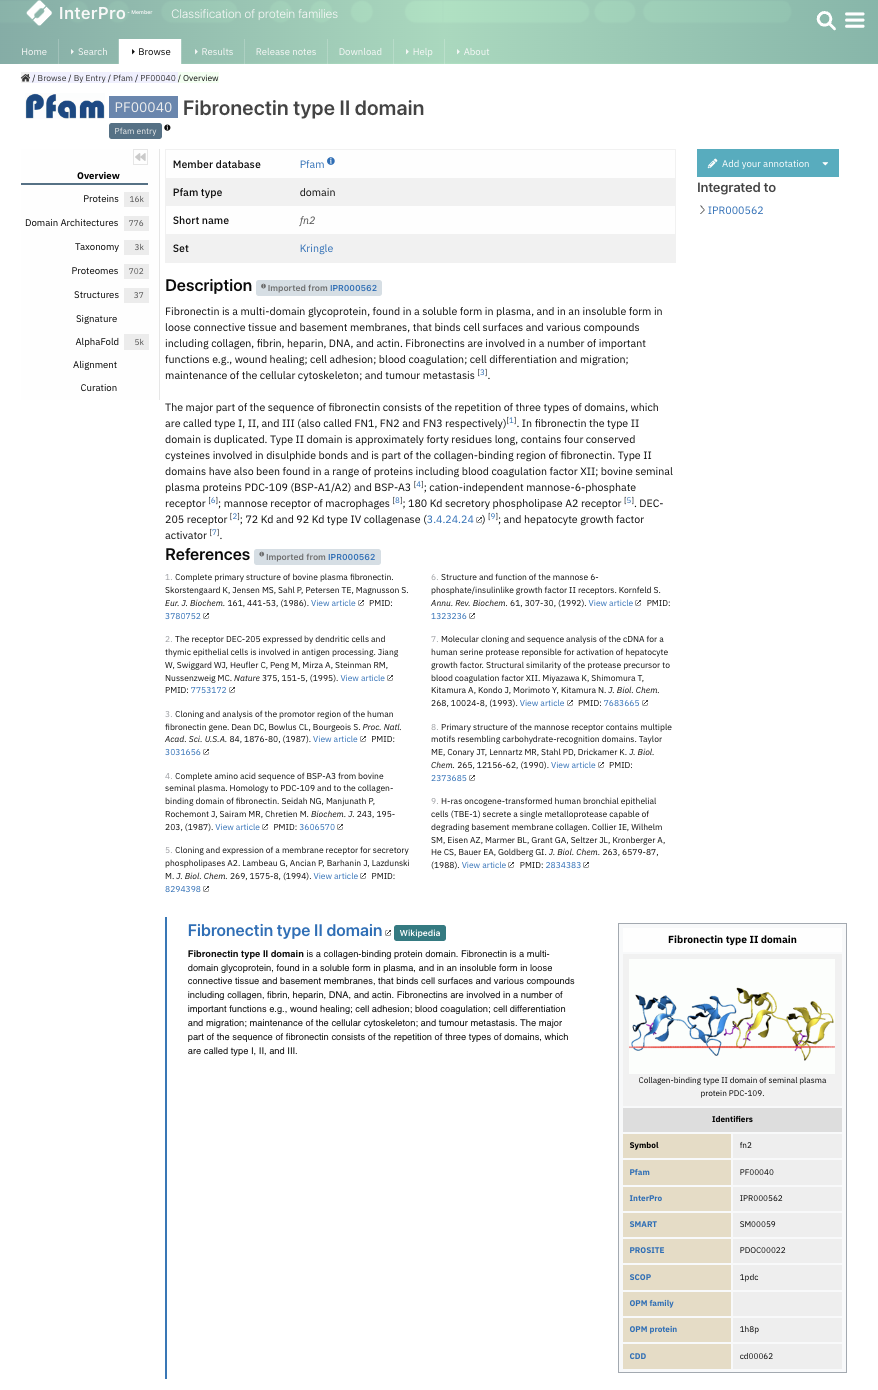
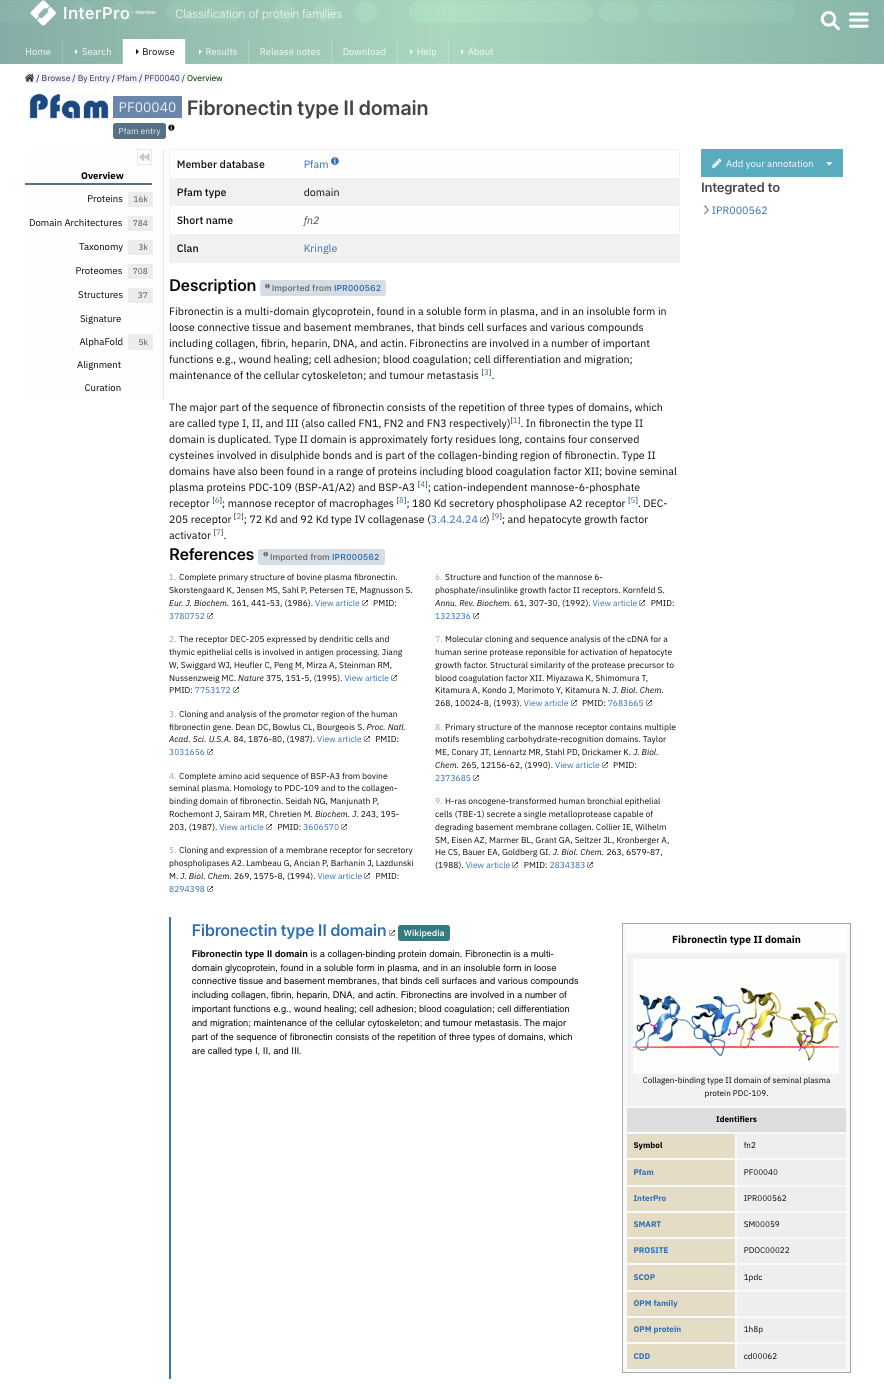
InterPro 97.0 updates

diff --git a/docs/browse.rst b/docs/browse.rst
@@ -20,7 +20,7 @@ There are 7 categories of entry pages in InterPro:
 - :ref:`Structure <structure_page>`
 - :ref:`Taxonomy <taxonomy_page>`
 - :ref:`Proteome <proteome_page>`
-- :ref:`Set <set_page>`
+- :ref:`Set/Clan <set_page>`
 
 The following entry data tabs are available when appropriate. We describe each in detail in the first 
 entry page it appears in. Most entry data tabs will be described within the :ref:`entry_page`.
@@ -44,9 +44,9 @@ entry page it appears in. Most entry data tabs will be described within the :ref
 
 .. _entry_page:
 
-********************
+*******************
 InterPro entry page
-********************
+*******************
 
 An InterPro entry represents a unique protein homologous superfamily, family, domain, repeat or important 
 site based on one or more signatures provided by the :doc:`InterPro member databases </databases>`.
@@ -59,11 +59,16 @@ site based on one or more signatures provided by the :doc:`InterPro member datab
 
 InterPro entry pages give a brief description of the entry, name and unique InterPro identifier. 
 The InterPro entry type (homologous superfamily, family, domain, repeat or site) is also indicated by an 
-icon (e.g. a D with a green background for a domain). Member databases contributing signatures to the 
-entry are shown in a box on the right hand side of the page. :ref:`Overlapping homologous superfamilies 
-<overlapping>` and/or :ref:`Relationships to other entries <relationship>` are indicated where available. 
+icon (e.g. a D with a green background for a domain). 
+
 Clicking on the star symbol next to the entry name will save the entry as a Favourite. The full list of saved
 entries is available in the :ref:`favourite` in the homepage. More information about the data provided in an 
+
+On the right hand side of the **Add your annotation** button on the right hand side allows the user to suggest updates to the InterPro annotation and the page member databases contributing signatures to the 
+entry are shown in a box. 
+
+:ref:`Overlapping homologous superfamilies <overlapping>` and/or :ref:`Relationships to other entries <relationship>` are indicated where available. 
+
 InterPro entry page can be found in the :doc:`InterPro Entries : essential information </entries_info>` section 
 of the documentation. 
 
@@ -224,11 +229,11 @@ regarding them as preliminary sources of information. :doc:`Read more on AI-gene
 
 Some member databases create groups of families that are evolutionary related. Pfam calls them clans, 
 CDD uses the term superfamily and, for PIRSF and Panther the concept is associated with the parent families of 
-their hierarchy. We use the umbrella term Set to refer to all of them. When available, the set to which the signature 
+their hierarchy. We use the umbrella term Clan to refer to Pfam groups and Set to refer to the other groups. When available, the set/clan to which the signature 
 belongs to is indicated.
 
 The right hand side of the page provides links to the InterPro entry in which this signature has been integrated, and 
-an external link to the signature on the member database's website.
+an external link to the signature on the member database's website when available. For Pfam signatures, the **Add your annotation** button allows the user to suggest updates to the Pfam annotation.
 
 For signatures provided by the Pfam member database, a short extract of the wikipedia page is also displayed
 when available to complete the description.
@@ -246,7 +251,7 @@ and :ref:`curation`.
 .. _signature:
 
 Signature
-==========
+=========
 The signature representing the model that defines the entry is visualised in this page as a logo, 
 using `Skylign <http://www.skylign.org/>`_. The logo data is displayed for the NCBIfam, Pfam, PANTHER, 
 PIRSF, and SFLD member databases.
@@ -267,7 +272,7 @@ amino acid are displayed in the bottom part.
 .. _alignment:
 
 Alignment
-==========
+=========
 This section allows users to view and download any available alignment file that is associated with the 
 current member database signature. Currently, the alignment files are only available for the Pfam member 
 database, but hopefully we will be able to include alignments for other member databases in the future.
@@ -460,15 +465,15 @@ in the tabs has 9K related InterPro entries, 27K proteins and 363 structures. No
 
 .. _set_page:
 
-**************
-Set entry page
-**************
+*******************
+Set/Clan entry page
+*******************
 
 Some :doc:`InterPro member databases </databases>` create groups of families that are evolutionary 
-related, called sets. This page offers an overview of a specific set provided by a member database, 
-it includes a short description and an interactive view of the signatures included in the set. 
+related, called sets/clans. This page offers an overview of a specific set/clan provided by a member database, 
+it includes a short description and an interactive view of the signatures included in the set/clan. 
 For the interactive view, different label types can be chosen through the **Label Content** menu: 
-Accession, Name and Short name. For sets provided by the Pfam member database, an additional section 
+Accession, Name and Short name. For clans provided by the Pfam member database, an additional section 
 provides literature references, when available.
 
 .. figure:: images/browse_pages/set_page.png
@@ -484,9 +489,9 @@ The following tabs may be available: :ref:`set_entries`, :ref:`proteins`, :ref:`
 
 Entries
 =======
-Provides the list of signatures included in the set (accession, name and short name).
+Provides the list of signatures included in the set/clan (accession, name and short name).
 
-For Pfam sets (also known as clans), the Entries tab contains the list of Pfam entries included in the set 
+For Pfam clans, the Entries tab contains the list of Pfam entries included in the clan
 and links to the entries SEED alignment and domain architectures pages.
 
 .. _alignment_clan:
@@ -494,7 +499,7 @@ and links to the entries SEED alignment and domain architectures pages.
 Alignments
 ==========
 
-List of signatures included in the set and their alignment with other signatures in the set.
+List of signatures included in the set/clan and their alignment with other signatures in the set/clan.
 
 .. figure:: images/browse_pages/alignment_clan.png
     :alt: Sequence alignment of the different signatures in the set

diff --git a/docs/training.rst b/docs/training.rst
@@ -1,14 +1,6 @@
-################################
+#############################
 Upcoming courses and webinars
-################################
-
-************************************************************************
-Structural bioinformatics course (virtual)
-************************************************************************
-
-| **Date**:  2 - 6 October 2023
-| **Venue**:  Virtual - EMBL-EBI
-| `Programme details and registration <https://www.ebi.ac.uk/training/events/structural-bioinformatics-1/>`_
+#############################
 
 If you would like us to train employees/students from your company/institution, `contact us <https://www.ebi.ac.uk/support/interpro>`_.
 
@@ -16,43 +8,51 @@ If you would like us to train employees/students from your company/institution, 
 Previous courses
 ################
 
-************************************************************************
+********************************************
+Structural bioinformatics course (in person)
+********************************************
+
+| **Date**:  2 - 6 October 2023
+| **Venue**:  Virtual - EMBL-EBI
+| `Programme details <https://www.ebi.ac.uk/training/events/structural-bioinformatics-1/>`_
+
+******************************************************
 Bioinformatics resources for protein biology (virtual)
-************************************************************************
+******************************************************
 
 | **Date**:  25 - 27 April 2023
 | **Venue**:  Virtual - EMBL-EBI
 | **Application deadline**: 22 January 2023
 | `Programme details <https://www.ebi.ac.uk/training/events/bioinformatics-resources-protein-biology-1/>`_
 
-************************************************************************
+******************************************
 Structural bioinformatics course (virtual)
-************************************************************************
+******************************************
 
 | **Date**:  Monday 17 - Friday 21 October 2022
 | **Venue**:  Virtual - EMBL-EBI
 | `Programme details <https://www.ebi.ac.uk/training/events/structural-bioinformatics-2022/>`_
 
-************************************************************************
+*******************************************
 Introduction to InterPro workshop (virtual)
-************************************************************************
+*******************************************
 
 | **Date**:  21 September 2022 15:30 (GMT-3)
 | **Speakers**: Typhaine Paysan-Lafosse ans Sara Chuguransky
 | **Venue**:  Virtual - 3rd Women in Bioinformatics & Data Science LA Conference
 | `Programme details <https://wbds.la/conferences/3WBDSLAC/workshops.html#>`_
 
-************************************************************************
+******************************************************
 Bioinformatics resources for protein biology (virtual)
-************************************************************************
+******************************************************
 
 | **Date**:  21 February - 2 March 2022
 | **Venue**:  Virtual - EMBL-EBI
 | `Programme details <https://www.ebi.ac.uk/training/events/bioinformatics-resources-protein-biology-2022/>`_
 
-************************************************************************
+******************************************
 Structural bioinformatics course (virtual)
-************************************************************************
+******************************************
 
 | **Date**:  Monday 11 - Friday 15 October 2021
 | **Venue**:  Virtual - EMBL-EBI

diff --git a/docs/searchways.rst b/docs/searchways.rst
@@ -1,6 +1,6 @@
-###########
+###################################
 How to search the InterPro website?
-###########
+###################################
 
 .. :ref:Search homepage.html#search
 .. :ref:navigation_menu banner.html#navigation-menu
@@ -25,9 +25,9 @@ There are five different types of search available in InterPro:
 
 .. _quick_search:
 
-**************
+************
 Quick search
-**************
+************
 
 .. figure:: images/banner/navigation_search_box.png
   :alt: Quick search component
@@ -134,14 +134,15 @@ The text search will search the following information in the database:
 
 - name, keyword
 - InterPro, protein, protein structure or member database signature accession
+- InterPro or member database signature short name
 - Protein identifier
 - Gene identifier 
 - GO terms
-- proteome identifier
-- set identifier
+- Proteome identifier
+- Set/Clan identifier
 
 Entering a **name**, or **keywords**, retrieves a list of all the InterPro entries and InterPro member database 
-signatures that contain these searched words in their title or description. By default the term searched is highlited 
+signatures that contain these searched words in their title or description. By default the term searched is highlighted 
 in the results list and the description is shortened, clicking on the |toggle| symbol located on the left hand side of 
 the **Export** button removes the highlight and shows the full description text. The setting is saved and also applied 
 to other text searches throughout the website.
@@ -152,17 +153,16 @@ access to the corresponding InterPro page. It also displays the list of the Inte
 database signatures linked to that accession number/identifier.
 
 Selecting the accession number or name of any entry in the list of entries opens the corresponding InterPro page 
-(e.g. :ref:`member database signature <memberdb_page>`, :ref:`InterPro entry <entry_page>`) under the **Browse** tab 
-in the :ref:`navigation menu <navigation_menu>`. An overview of the entry 
+(e.g. :ref:`member database signature <memberdb_page>`, :ref:`InterPro entry <entry_page>`). An overview of the entry 
 is provided and tabs on the left hand-side menu allow specific information for the entry to be viewed, for example the species 
 in which a protein has been found, or structures matching an entry. More information on the
 :doc:`browsing an InterPro page </browse>` section.
 
 .. _domain_arch_search:
 
-*******************
+**************************
 Domain architecture search
-*******************
+**************************
 
 .. figure:: images/search/ida.png
   :alt: Domain Architecture search
@@ -191,9 +191,9 @@ Pfam checkbox to InterPro and vice versa.
 
 .. _browse_feature:
 
-*******************
+**************************************************
 Using Browse feature to search and filter InterPro
-*******************
+**************************************************
 
 .. figure:: images/search/browse_page.png
   :alt: Browse search
@@ -266,7 +266,7 @@ Data-type specific filters
 .. _entry_filters:
 
 InterPro entry filters
--------------
+----------------------
 .. figure:: images/browse/entry_filters.png
   :alt: Entry filters
   :width: 200px
@@ -295,7 +295,7 @@ When **Browse by InterPro** is selected, two filter types can be applied:
 .. _memberdb_filters:
 
 Member database filters
--------------
+-----------------------
 
 .. figure:: images/browse/member_db_filters.png
   :alt: Member database filters

diff --git a/docs/tutorials_webinars.rst b/docs/tutorials_webinars.rst
@@ -1,10 +1,10 @@
-########
+#############################
 InterPro tutorials & Webinars
-########
+#############################
 
-****
+*********
 Tutorials
-****
+*********
 
 Tutorials related to InterPro are available online:
 
@@ -14,12 +14,12 @@ Tutorials related to InterPro are available online:
 - `A case study of 3 protein family building methodologies <https://www.ebi.ac.uk/training/online/course/interpro-case-study-3-protein-family-building-methodologies>`_
 - `Genome3D annotations in InterPro <https://www.ebi.ac.uk/training/online/course/genome3d-annotations-interpro>`_
 
-****
+********
 Webinars
-****
-
+********
 Recorded webinars related to InterPro are available online:
 
+- `Exploring protein families and domains using InterPro <https://www.ebi.ac.uk/training/events/exploring-protein-families-and-domains-using-interpro/>`_
 - `Finding Pfam's protein families data in the InterPro website <https://www.ebi.ac.uk/training/events/finding-pfam-protein-families-data-interpro-website>`_
 - `A guide to proteomics data analysis using UniProt and InterPro <https://www.ebi.ac.uk/training/events/guide-proteomics-data-analysis-using-uniprot-and-interpro/>`_
 - `Understanding InterPro families, domains and functions <https://www.ebi.ac.uk/training/online/course/understanding-interpro-families-domains-and-functions>`_

diff --git a/docs/entries_info.rst b/docs/entries_info.rst
@@ -50,7 +50,7 @@ Other entry and page types
 ****
 In addition to the main :ref:`InterPro Entries <entry_page>`, which bring together protein signatures from the member databases consortium, 
 InterPro also provides entry pages for the individual :ref:`member database signatures <memberdb_page>` and for :ref:`proteins <protein_page>`, 
-:ref:`structures <structure_page>`, :ref:`taxons <taxonomy_page>`, :ref:`proteomes <proteome_page>` and :ref:`sets <set_page>` integrated or used by 
+:ref:`structures <structure_page>`, :ref:`taxons <taxonomy_page>`, :ref:`proteomes <proteome_page>` and :ref:`sets/clans <set_page>` integrated or used by 
 InterPro. These entry pages also have further information available that can be viewed by :doc:`/browse`. More information is available 
 in the corresponding `train online section <https://www.ebi.ac.uk/training/online/course/interpro-functional-and-structural-analysis-protei/what-interpro-entry>`_.
 
